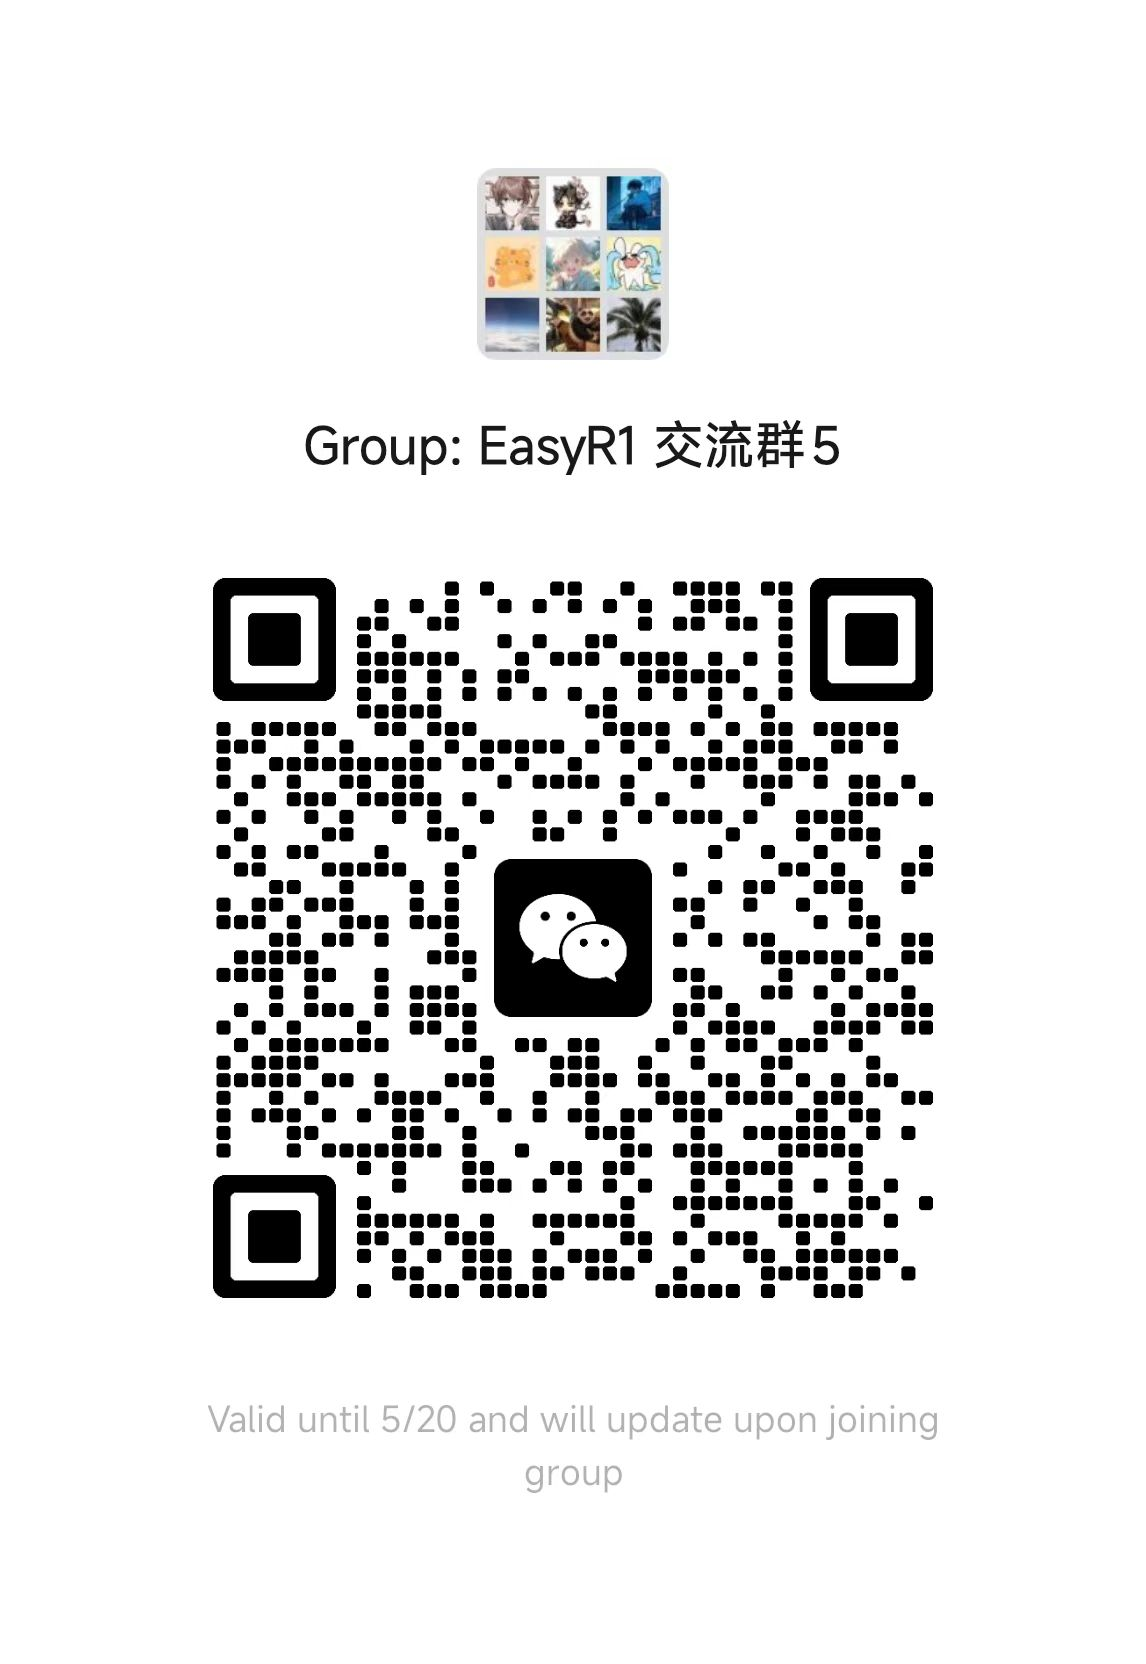
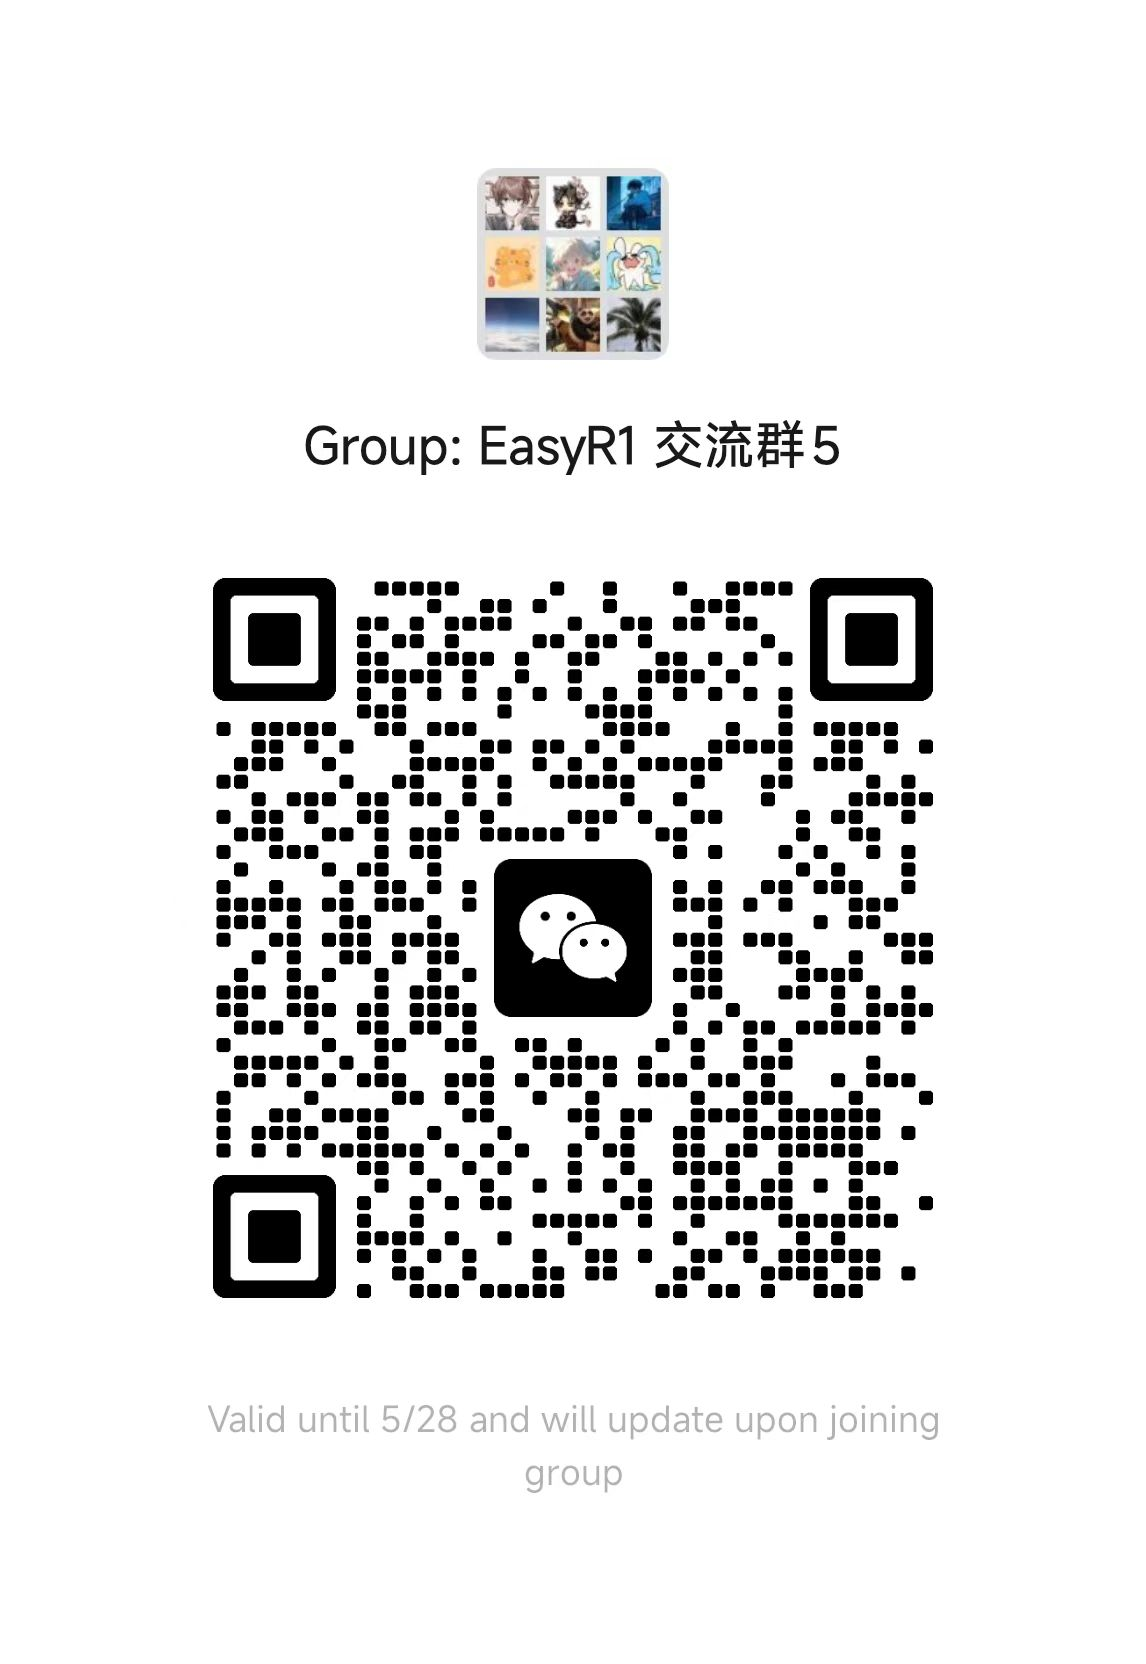
[readme] update wechat (#301)

diff --git a/verl/__init__.py b/verl/__init__.py
@@ -17,14 +17,16 @@ import os
 from .utils.py_functional import is_package_available
 
 
-__version__ = "0.3.0"
+if is_package_available("modelscope"):
+    from modelscope.utils.hf_util import patch_hub  # type: ignore
+
+
+__version__ = "0.3.1.dev0"
 
 
 if os.getenv("USE_MODELSCOPE_HUB", "0").lower() in ["true", "y", "1"]:
-    if not is_package_available("modelscope"):
-        raise ImportError("You are using the modelscope hub, please install modelscope by `pip install modelscope -U`")
-
     # Patch hub to download models from modelscope to speed up.
-    from modelscope.utils.hf_util import patch_hub
+    if not is_package_available("modelscope"):
+        raise ImportError("You are using the modelscope hub, please install modelscope by `pip install modelscope`.")
 
     patch_hub()
